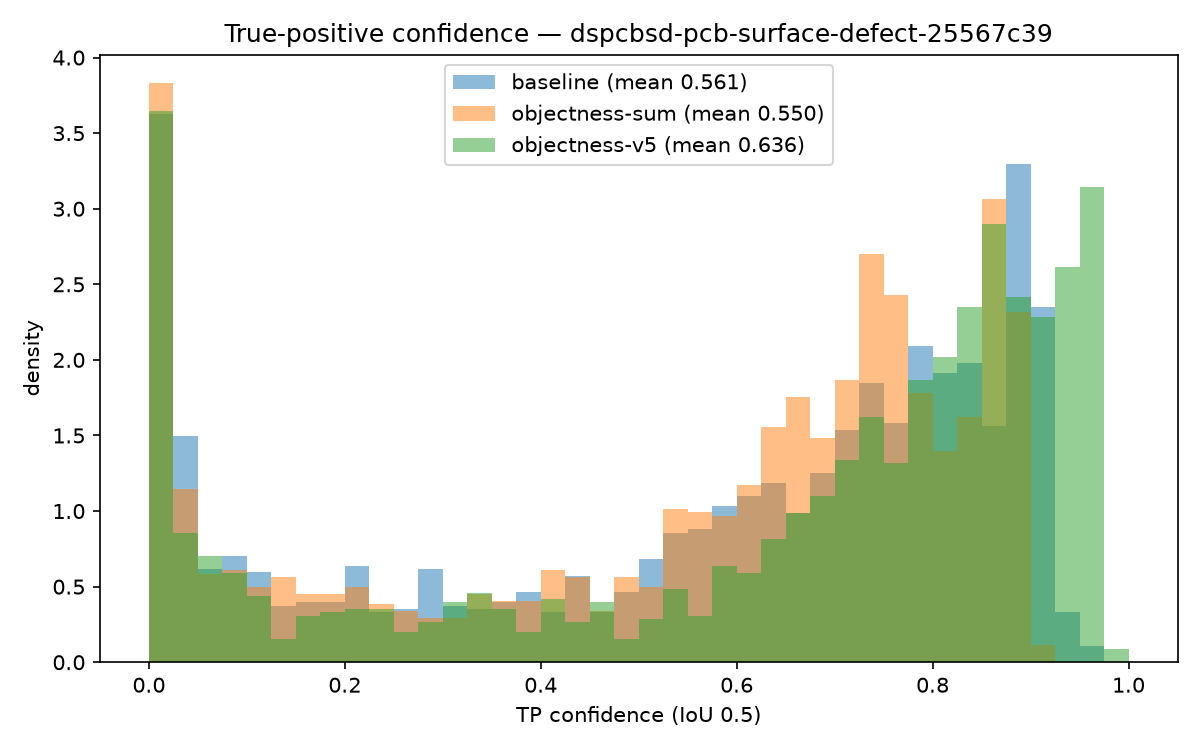
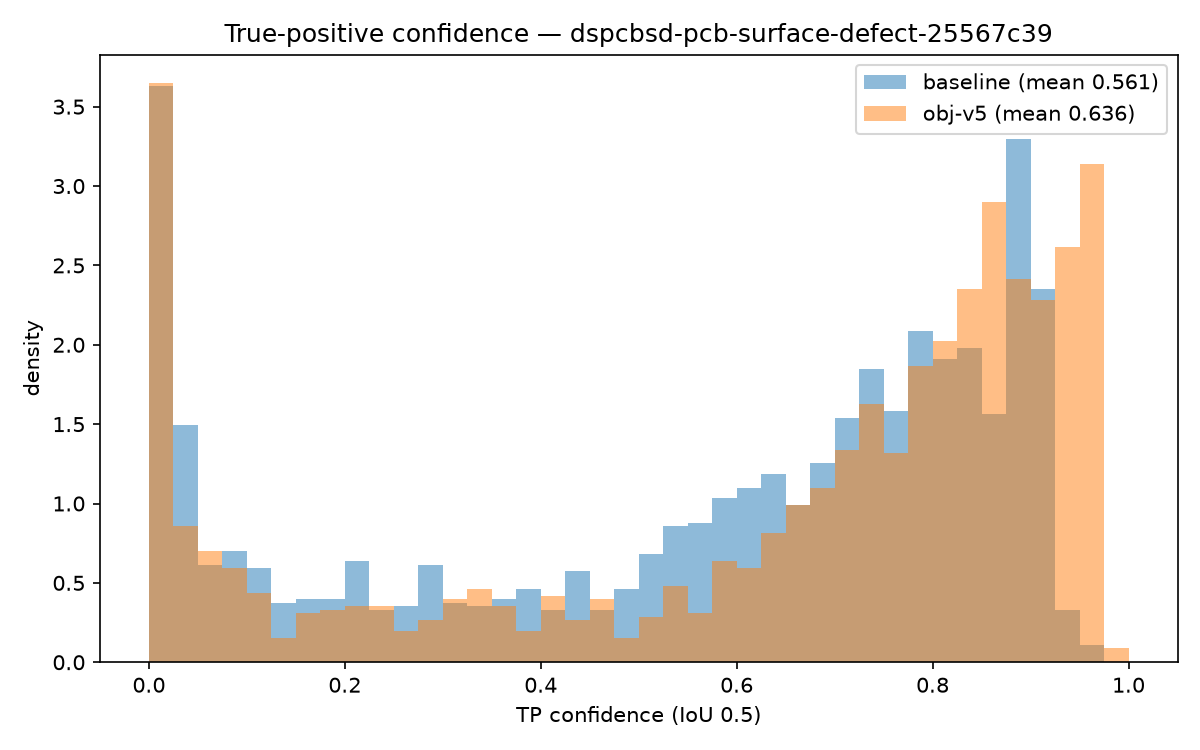
Streamline README: drop ablations and client wording, 2-way comparison charts

diff --git a/README.md b/README.md
@@ -2,7 +2,7 @@
 
 📌 Reintroducing the YOLOv5 **objectness branch** to Ultralytics YOLO (v8 / YOLO11 / YOLO26) as an external package — with YOLOv5's target semantics it reproduces the field claim: **higher confidence (+0.06–0.10 mean TP conf) on similar-looking classes at equal-or-better mAP**, e.g. semiconductor-style defect categories.
 
-Clients reported that YOLO outputs low confidence when categories have similar appearance, and that re-adding the objectness branch removed in v5→v8 helps. This repo is the controlled experiment: the branch re-implemented **without modifying `ultralytics/`**, A/B-tested on 2 hard datasets from the [Ultralytics Benchmark](https://github.com/ultralytics/ultralytics) (37 datasets) under the benchmark protocol.
+YOLO tends to output low confidence when categories have similar appearance, and re-adding the objectness branch removed in v5→v8 is reported to help. This repo is the controlled experiment: the branch re-implemented **without modifying `ultralytics/`**, A/B-tested on 2 hard datasets from the [Ultralytics Benchmark](https://github.com/ultralytics/ultralytics) (37 datasets) under the benchmark protocol.
 
 ## How to use this repo
 
@@ -92,7 +92,7 @@ flowchart TB
 ## Experiment results
 
 - Protocol (Ultralytics Benchmark): yolo26n, 100 epochs, seed 0, batch 16, imgsz 640, train ≤ 1000 images (`fraction=[1000, 1.0, 0.0]`), full val, `cls_remap=True`; all other hyps = `cfg/default.yaml`.
-- Datasets: **DSPCBSD** (9 near-identical PCB defect classes — closest to the semiconductor client scenario) and **TN5000** (benign/malignant thyroid ultrasound — low contrast, low inter-class discrimination).
+- Datasets: **DSPCBSD** (9 near-identical PCB defect classes — closest to the semiconductor defect scenario) and **TN5000** (benign/malignant thyroid ultrasound — low contrast, low inter-class discrimination).
 - `recall@thr` = recall after discarding detections with `conf < thr` (matched = IoU ≥ 0.5 + correct class).
 
 ### Final answer — v5-targets objectness vs stock baseline
@@ -104,38 +104,12 @@ flowchart TB
 | TN5000 pretrained | 0.510 → **0.514** | 0.666 → **0.762** | 0.814 → **0.820** |
 | TN5000 scratch | 0.478 → **0.487** | 0.647 → **0.703** | 0.788 → **0.832** |
 
-TP confidence histograms at IoU 0.5 (blue = baseline · orange = obj hard-fg targets · green = obj v5 targets):
+TP confidence histograms at IoU 0.5 (blue = baseline · orange = v5-style objectness):
 
 | | |
 |---|---|
 | ![dspcbsd pretrained](assets/tpconf-v5t-dspcbsd-pretrained.png) | ![dspcbsd scratch](assets/tpconf-v5t-dspcbsd-scratch.png) |
 | ![tn5000 pretrained](assets/tpconf-v5t-tn5000-pretrained.png) | ![tn5000 scratch](assets/tpconf-v5t-tn5000-scratch.png) |
-
-### Ablation history (why the target pairing is the key)
-
-**mAP50-95**
-
-| cell | baseline | obj hard-fg/soft-cls | obj + mean-norm loss | obj v5 targets |
-|---|---|---|---|---|
-| DSPCBSD pretrained | 0.396 | 0.380 | 0.380 | **0.397** |
-| DSPCBSD scratch | 0.282 | 0.268 | 0.261 | **0.308** |
-| TN5000 pretrained | 0.510 | **0.517** | 0.478 | 0.514 |
-| TN5000 scratch | 0.478 | **0.489** | 0.422 | 0.487 |
-
-**mean TP conf**
-
-| cell | baseline | obj hard-fg/soft-cls | obj + mean-norm loss | obj v5 targets |
-|---|---|---|---|---|
-| DSPCBSD pretrained | 0.561 | 0.550 | 0.503 | **0.636** |
-| DSPCBSD scratch | 0.408 | 0.372 | 0.354 | **0.489** |
-| TN5000 pretrained | 0.666 | 0.697 | 0.670 | **0.762** |
-| TN5000 scratch | 0.647 | 0.616 | 0.562 | **0.703** |
-
-- The original pairing (obj ← hard fg_mask, cls ← TAL soft scores) **hurt** DSPCBSD and merely shifted TN5000's P/R trade — and it is not a pretrained/random-init artifact (same deficit from scratch).
-- Mean-normalizing the obj loss is equal-or-worse — the obj-loss scale is not the driver.
-- Switching only the targets to the YOLOv5 pairing (obj ← CIoU, cls ← one-hot) turns the branch beneficial in all 4 cells: mAP at/above baseline and confidence up +0.06–0.10, with fewer inter-class confusions on DSPCBSD.
-- 💡 Mechanism: CIoU targets give obj a graded localization-quality signal that stays informative after saturation; one-hot cls frees class discrimination from soft IoU-weighted targets. The inverted pairing trains obj on a trivial hard mask while pushing cls toward confounded soft scores.
-- Single seed (0) per cell — treat dataset-dependent direction as the finding; the seed sweep is the open follow-up.
 
 Full experiment record (training curves, prediction panels, per-class AP, confusion matrices): [ultralytics-private#219](https://github.com/ultralytics/ultralytics-private/issues/219).
 
